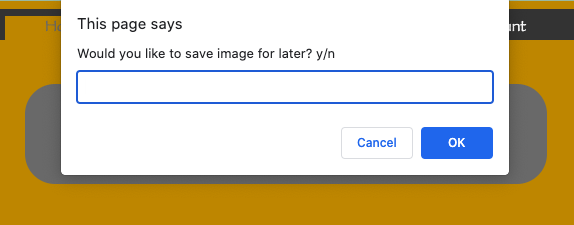
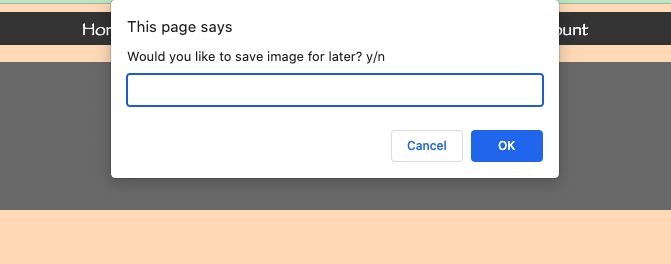
Updated styles and README

diff --git a/css/styles.css b/css/styles.css
@@ -1,6 +1,6 @@
 /* The main body of the file containing the main font style and colours */
 body {
-    background-color:darkgoldenrod;
+    background-color:peachpuff;
     text-align: center;
     max-width:80%;
     margin-left:auto;
@@ -29,18 +29,19 @@ nav a:hover {
 }
 /* Colour of button of the current page */
 nav a.active {
-    background-color: darkgoldenrod;
+    background-color: peachpuff;
     color: dimgray;
 }
 /* Heading 1 in its own block of text with different background colour */
 h1 {
-    font-size: 5vw;
+    font-size: 6vw;
     background-color: dimgray;
-    color:darkgoldenrod;
-    max-width: 50%;
+    color:tan;
     margin-left: auto;
     margin-right: auto;
-    border-radius: 30px;
+    margin-top:1.5%;
+    padding-top: 1.3%;
+    
 }
 /* Logo image in top corners of page  */
 .logo1 {
